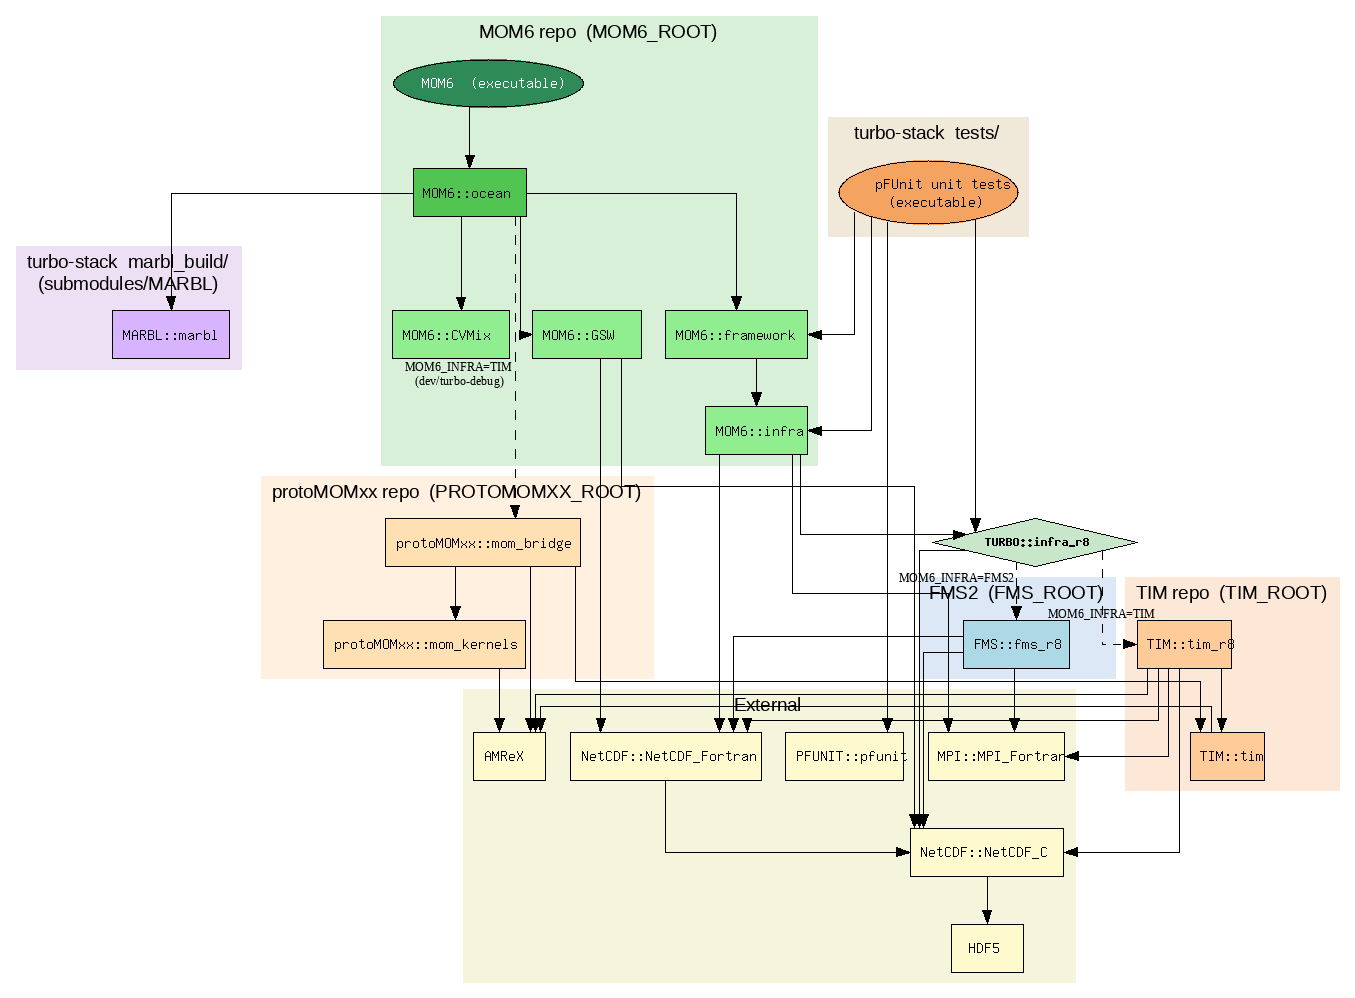
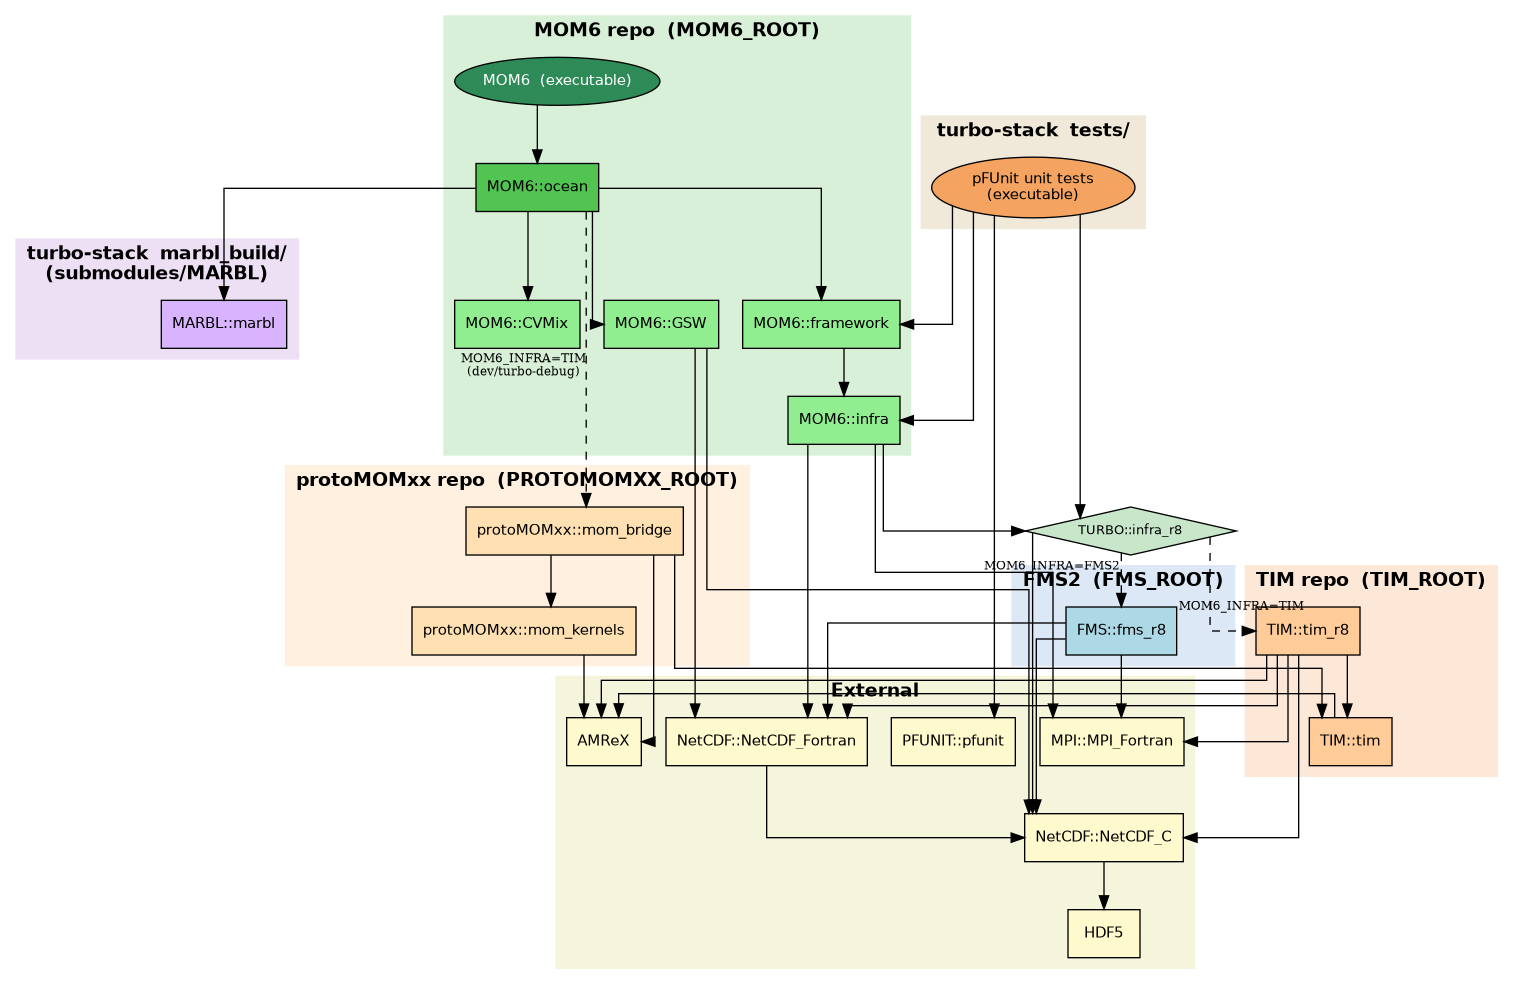
Re-render the gd-rendered figures with cairo
cmake_dependency_dag.png, dependency_tiers.png and two_stage_pipeline.png
were rendered by Graphviz's gd backend, which `dot -Tpng` falls back to
when cairo is missing: `·` and `→` came out as `Â·` and `â`, node text
fell back to a Courier-style font, and labels were cut off. Re-render
them with `dot -Tpng:cairo`; their .dot sources are unchanged.
build_test_orchestration.png was already rendered with cairo, and a
fresh render reproduces it byte for byte.

The documented render command becomes `dot -Tpng:cairo` in README.md
and the four docs/*_prompt.md files, so a Graphviz built without cairo
stops with an error instead of quietly producing a gd image.

Changed region(s): [[0.0, 0.0, 0.9919, 1.0]]

diff --git a/docs/build_test_orchestration_prompt.md b/docs/build_test_orchestration_prompt.md
@@ -3,7 +3,7 @@
 Use the prompt below to regenerate `build_test_orchestration.dot` (and the PNG) with Claude Code after
 the orchestration scripts change. It describes the structure and data flow, not exact dot syntax.
 
-Render with: `dot -Tpng -o docs/build_test_orchestration.png docs/build_test_orchestration.dot`.
+Render with: `dot -Tpng:cairo -o docs/build_test_orchestration.png docs/build_test_orchestration.dot`.
 
 This is the canonical pipeline figure. `local_spack_pipeline` and the old
 `test_new_build_system_on_derecho` figures were retired in favour of it; `two_stage_pipeline` is kept as
@@ -17,7 +17,7 @@ Tiers 1, 1.5 and 2; Stage 2 builds Tier 3.
 ## Prompt
 
 Generate a Graphviz dot file at `docs/build_test_orchestration.dot` showing the turbo-stack build/test
-orchestration, and render to `docs/build_test_orchestration.png` with `dot -Tpng`.
+orchestration, and render to `docs/build_test_orchestration.png` with `dot -Tpng:cairo`.
 
 ### Narrative the figure must land
 - **Every labelled box is a script; the steps inside it are what that script does.**  Put this idea

diff --git a/docs/two_stage_pipeline_prompt.md b/docs/two_stage_pipeline_prompt.md
@@ -4,7 +4,7 @@ Use the prompt below to regenerate `two_stage_pipeline.dot` (and the PNG) with C
 build's stage structure changes. It describes the two stages and their data flow, not the exact dot
 syntax.
 
-Render with: `dot -Tpng -o docs/two_stage_pipeline.png docs/two_stage_pipeline.dot`.
+Render with: `dot -Tpng:cairo -o docs/two_stage_pipeline.png docs/two_stage_pipeline.dot`.
 
 This is the conceptual companion to `build_test_orchestration` (which shows the driver/builder
 *script* flow across machines). This figure is deliberately flavor-agnostic: it shows only the two
@@ -15,7 +15,7 @@ stages and the shell-state boundary between them.
 ## Prompt
 
 Generate a Graphviz dot file at `docs/two_stage_pipeline.dot` showing the two-stage build pipeline of
-turbo-stack, and render it to `docs/two_stage_pipeline.png` with `dot -Tpng`.
+turbo-stack, and render it to `docs/two_stage_pipeline.png` with `dot -Tpng:cairo`.
 
 ### Narrative the figure must land
 - **Stage 1 — "Environment"**: prepare everything the build needs — the toolchain (compilers, CMake,

diff --git a/docs/dependency_tiers_prompt.md b/docs/dependency_tiers_prompt.md
@@ -4,7 +4,7 @@ Use the prompt below to regenerate `dependency_tiers.dot` (and the PNG) with Cla
 turbo-stack's dependency *policy* changes (a dep added/removed, or a dep's tier changes). The
 prompt describes the *classification*, not exact dot syntax, so it stays valid as members move.
 
-Render with: `dot -Tpng -o docs/dependency_tiers.png docs/dependency_tiers.dot`.
+Render with: `dot -Tpng:cairo -o docs/dependency_tiers.png docs/dependency_tiers.dot`.
 
 This figure is the **contract companion** to `cmake_dependency_dag.png`. The DAG shows build-time *link*
 relationships (what links what); this figure shows turbo-stack's *build policy* toward each
@@ -17,7 +17,7 @@ grouped differently.
 
 Generate a Graphviz dot file at `docs/dependency_tiers.dot` classifying every turbo-stack
 dependency by turbo-stack's BUILD POLICY (not by who owns or co-develops it). Render to
-`docs/dependency_tiers.png` with `dot -Tpng`.
+`docs/dependency_tiers.png` with `dot -Tpng:cairo`.
 
 ### Layout rules
 - `rankdir=TB`, `splines=ortho`, `compound=true`, `newrank=true`.

diff --git a/README.md b/README.md
@@ -238,4 +238,4 @@ scripts.
 | [`tests/README.md`](tests/README.md) | Writing and adding pFUnit unit tests |
 | [`docker/README.md`](docker/README.md) | The CI container images, building in them locally, and the workflows that build and consume them |
 | [`examples/README.md`](examples/README.md) | Running and archiving the example experiments |
-| `docs/*.dot` | Sources for the build-system figures, which `scripts/README.md` uses. After editing one, re-render and commit the PNG: `dot -Tpng -o docs/<name>.png docs/<name>.dot`. Each figure's `*_prompt.md` records what it must show |
+| `docs/*.dot` | Sources for the build-system figures, which `scripts/README.md` uses. After editing one, re-render and commit the PNG: `dot -Tpng:cairo -o docs/<name>.png docs/<name>.dot`. With `:cairo`, Graphviz stops if it was built without cairo, instead of falling back to its gd renderer, which garbles `·` and `→` and cuts off labels. Each figure's `*_prompt.md` records what it must show |

diff --git a/docs/cmake_dependency_dag_prompt.md b/docs/cmake_dependency_dag_prompt.md
@@ -6,7 +6,7 @@ Use the prompt below to regenerate `cmake_dependency_dag.dot` (and the PNG) with
 
 ## Prompt
 
-Generate a Graphviz dot file at `docs/cmake_dependency_dag.dot` showing the build-time dependencies of the turbo-stack project. Render it to `docs/cmake_dependency_dag.png` with `dot -Tpng`.
+Generate a Graphviz dot file at `docs/cmake_dependency_dag.dot` showing the build-time dependencies of the turbo-stack project. Render it to `docs/cmake_dependency_dag.png` with `dot -Tpng:cairo`.
 
 ### Layout rules
 - `rankdir=TB` — high-level consumers at the top, low-level libraries at the bottom.
